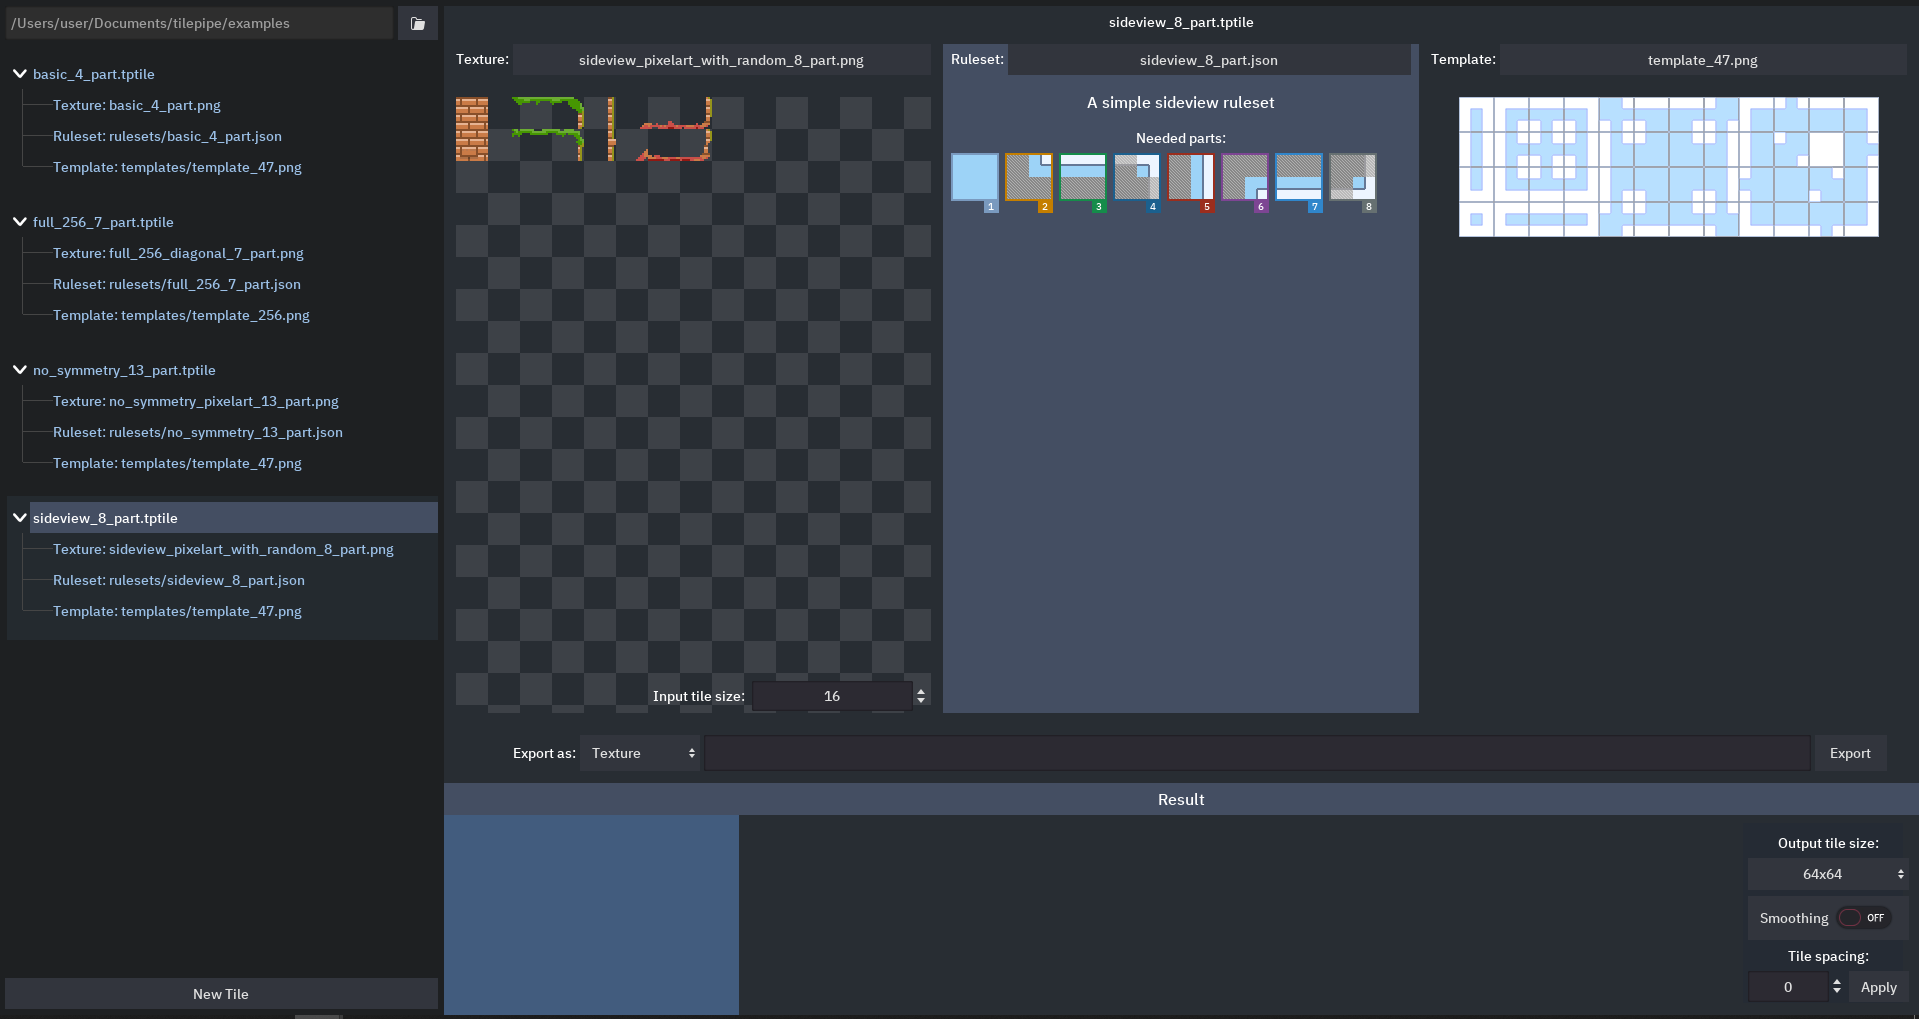
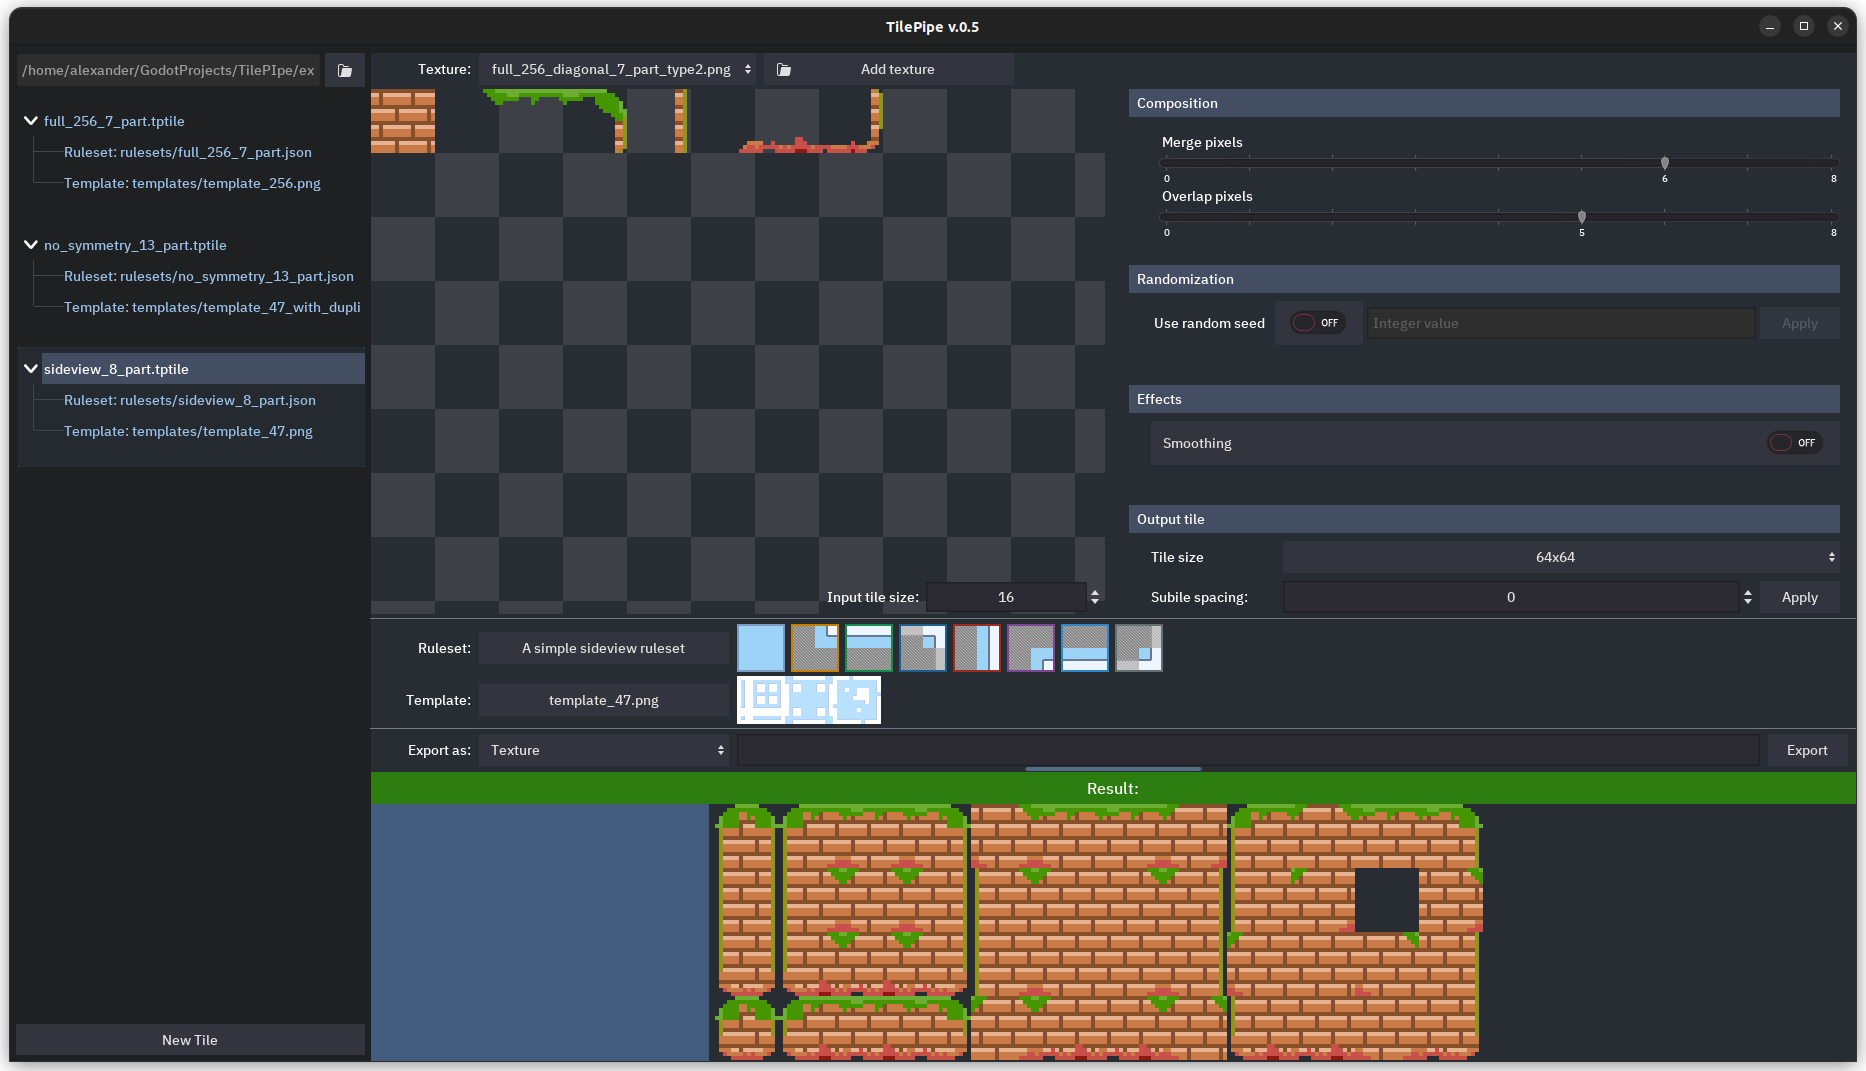
Update screnn in the docs

diff --git a/readme.md b/readme.md
@@ -12,12 +12,11 @@ It is full rework of logic and UI. Main differences
 
 
 ## Screens
-Tile main view (overview)
+Tile main view
 ![Tile overview (unfinished)](docs/Screen1.png)
 Ruleset viewer
 ![Ruleset (unfinished)](docs/Screen2.png)
-Texture setup
-![Texture settings (unfinished)](docs/Screen3.png)
+
 
 ## Roadmap for 0.5 branch before the release
 0.5 is not ready to be released, there is not much work left, but I am not sure when and if it will be finished
